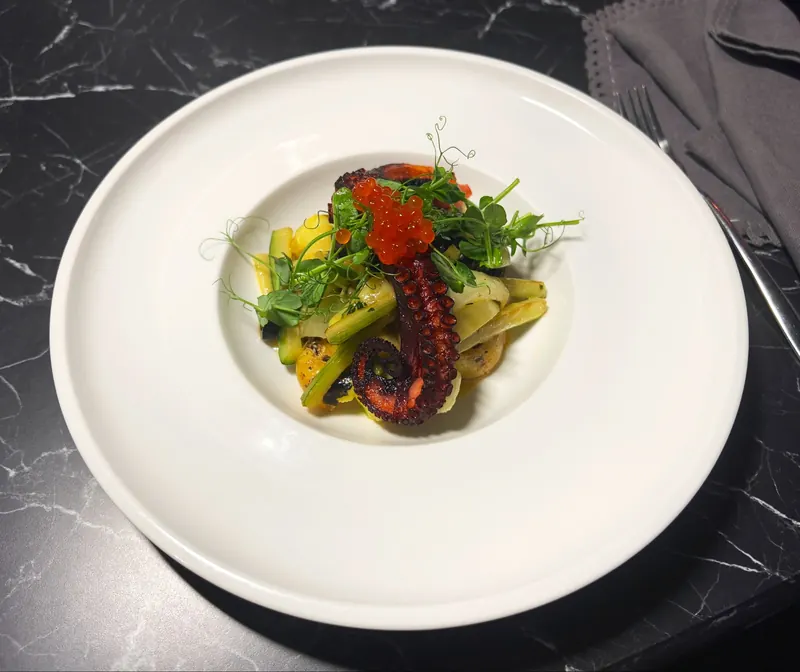
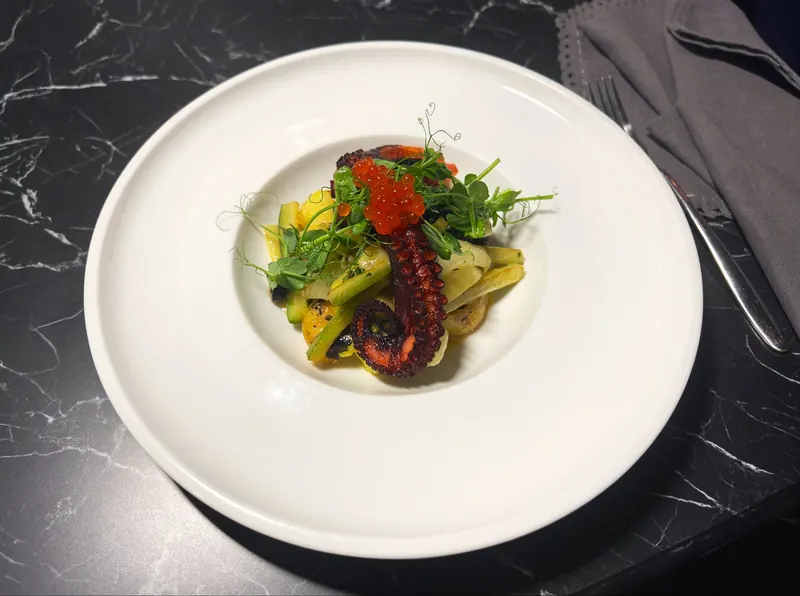
Carousel: full-width photos, compact text area on phones and tablets
- Photo slides fill the frame again (cover), always centred; the image frame on
  phones/tablets now has the photos' own 6:5 proportion, so plates stay whole.
- Wider octopus crop so the plate has room at every width.
- Phones/tablets: the carousel takes the height of its tallest slide instead of a
  fixed height; shorter descriptions below 1200 px; no large empty area under the text.

Claude-Session: https://claude.ai/code/session_01Ub6a2QUmC7YPJJ9CZ9z6S5

diff --git a/docs/index.html b/docs/index.html
@@ -20,7 +20,7 @@
 <link rel="icon" type="image/png" sizes="32x32" href="assets/img/favicon-32.png">
 <link rel="apple-touch-icon" href="assets/img/apple-touch-icon.png">
 <link rel="preload" href="assets/fonts/cormorant-garamond-latin-ext-400-normal.woff2" as="font" type="font/woff2" crossorigin>
-<link rel="stylesheet" href="assets/css/style.css?v=a135cbf9">
+<link rel="stylesheet" href="assets/css/style.css?v=16802cf9">
 <script>(function(){var d=document.documentElement,t=null;try{t=localStorage.getItem('br-theme')}catch(e){}if(t!=='light'&&t!=='dark')t=window.matchMedia&&matchMedia('(prefers-color-scheme: dark)').matches?'dark':'light';d.setAttribute('data-theme',t)})()</script>
 <noscript><style>.rx .float,.rx .rise,.rx .bar{opacity:1!important;transform:none!important}.rx .wd{color:var(--ink)}.rx .call.off{opacity:1;visibility:visible;transform:none}.rx .pbar.off{transform:none;visibility:visible}</style></noscript>
 <script type="application/ld+json">{"@context": "https://schema.org", "@type": "Restaurant", "name": "Beef & Reef", "servesCuisine": ["Steakhouse", "Seafood"], "telephone": "+48222538860", "email": "kontakt@beefandreef.pl", "priceRange": "$$$", "address": {"@type": "PostalAddress", "streetAddress": "Kazachska 1", "postalCode": "02-999", "addressLocality": "Warszawa", "addressCountry": "PL"}, "openingHoursSpecification": [{"@type": "OpeningHoursSpecification", "dayOfWeek": ["Monday", "Tuesday", "Wednesday", "Thursday", "Friday", "Saturday", "Sunday"], "opens": "12:00", "closes": "23:00"}], "sameAs": ["https://www.facebook.com/beef.and.reef.wilanow", "https://www.instagram.com/beef.and.reef_steak_seafood"], "acceptsReservations": true}</script>
@@ -89,7 +89,7 @@
             <div class="s-text">
               <p class="t1 kicker">WYDARZENIE · 7–15 LISTOPADA</p>
               <p class="t2 t-title">Z okazji Świętego Marcina</p>
-              <p class="t3 t-desc">Królować będzie gęsina w autorskich odsłonach naszego Szefa Kuchni. 11 listopada — oryginalne rogale świętomarcińskie z certyfikowanej piekarni w Poznaniu.</p>
+              <p class="t3 t-desc"><span class="d-l">Królować będzie gęsina w autorskich odsłonach naszego Szefa Kuchni. 11 listopada — oryginalne rogale świętomarcińskie z certyfikowanej piekarni w Poznaniu.</span><span class="d-s">Gęsina w autorskich odsłonach Szefa Kuchni. 11 listopada — rogale świętomarcińskie z Poznania.</span></p>
               <p class="t4 t-price">Udko z gęsi confit · 450 g · 199</p>
             </div>
             <div class="s-img"><img class="bgfill photo" src="assets/img/rogale-swietomarcinskie.webp" srcset="assets/img/rogale-swietomarcinskie-800.webp 800w, assets/img/rogale-swietomarcinskie.webp 1600w" sizes="(max-width: 899px) 100vw, 60vw" alt="" aria-hidden="true" draggable="false"><img class="photo" src="assets/img/rogale-swietomarcinskie.webp" srcset="assets/img/rogale-swietomarcinskie-800.webp 800w, assets/img/rogale-swietomarcinskie.webp 1600w" sizes="(max-width: 899px) 100vw, 60vw" alt="Rogale świętomarcińskie z lukrem i orzechami" style="" draggable="false"></div>
@@ -99,7 +99,7 @@
             <div class="s-text">
               <p class="t1 kicker">STEKI</p>
               <p class="t2 t-title">Steki z najlepszych hodowli</p>
-              <p class="t3 t-desc">Wołowina rasy Black Angus, sezonowana na sucho min. 21 dni. Polędwica, ribeye, T-bone, porterhouse i tomahawk.</p>
+              <p class="t3 t-desc"><span class="d-l">Wołowina rasy Black Angus, sezonowana na sucho min. 21 dni. Polędwica, ribeye, T-bone, porterhouse i tomahawk.</span><span class="d-s">Black Angus, sezonowana na sucho min. 21 dni.</span></p>
               <p class="t4 t-price">od 119</p>
             </div>
             <div class="s-img"><img class="bgfill plate" src="assets/img/steki-hero.webp" alt="" aria-hidden="true" draggable="false"><img class="plate" src="assets/img/steki-hero.webp" alt="Dwa surowe, marmurkowe antrykoty na drewnianej desce z tymiankiem i papryczkami chili" style="--mw: 92%; --mh: 62%" draggable="false"></div>
@@ -109,7 +109,7 @@
             <div class="s-text">
               <p class="t1 kicker">RYBY I OWOCE MORZA</p>
               <p class="t2 t-title">Macka ośmiornicy</p>
-              <p class="t3 t-desc">Ośmiornica, seler naciowy, kapary, cukinia, białe wino, oliwki, opiekane ziemniaki.</p>
+              <p class="t3 t-desc"><span class="d-l">Ośmiornica, seler naciowy, kapary, cukinia, białe wino, oliwki, opiekane ziemniaki.</span><span class="d-s">Seler naciowy, kapary, cukinia, białe wino, oliwki.</span></p>
               <p class="t4 t-price">109</p>
             </div>
             <div class="s-img"><img class="bgfill photo" src="assets/img/osmiornica.webp" srcset="assets/img/osmiornica-800.webp 800w, assets/img/osmiornica.webp 1600w" sizes="(max-width: 899px) 100vw, 60vw" alt="" aria-hidden="true" draggable="false"><img class="photo" src="assets/img/osmiornica.webp" srcset="assets/img/osmiornica-800.webp 800w, assets/img/osmiornica.webp 1600w" sizes="(max-width: 899px) 100vw, 60vw" alt="Macka ośmiornicy z cukinią, kiełkami groszku i czerwonym kawiorem w głębokim talerzu" style="object-position: 50% 50%" draggable="false"></div>
@@ -119,7 +119,7 @@
             <div class="s-text">
               <p class="t1 kicker">DANIA GŁÓWNE</p>
               <p class="t2 t-title">Pierś z kaczki</p>
-              <p class="t3 t-desc">Pierś z kaczki sous-vide, sos pomarańczowy, purée selerowe, brokuł łodygowy.</p>
+              <p class="t3 t-desc"><span class="d-l">Pierś z kaczki sous-vide, sos pomarańczowy, purée selerowe, brokuł łodygowy.</span><span class="d-s">Sous-vide, sos pomarańczowy, purée selerowe.</span></p>
               <p class="t4 t-price">109</p>
             </div>
             <div class="s-img"><img class="bgfill photo" src="assets/img/kaczka.webp" srcset="assets/img/kaczka-800.webp 800w, assets/img/kaczka.webp 1600w" sizes="(max-width: 899px) 100vw, 60vw" alt="" aria-hidden="true" draggable="false"><img class="photo" src="assets/img/kaczka.webp" srcset="assets/img/kaczka-800.webp 800w, assets/img/kaczka.webp 1600w" sizes="(max-width: 899px) 100vw, 60vw" alt="Pierś z kaczki z sosem pomarańczowym, brokułem i purée selerowym" style="object-position: 50% 50%" draggable="false"></div>
@@ -129,7 +129,7 @@
             <div class="s-text">
               <p class="t1 kicker">DESERY</p>
               <p class="t2 t-title">Kremowy sernik</p>
-              <p class="t3 t-desc">Lody waniliowe, mus malinowy, owoce.</p>
+              <p class="t3 t-desc"><span class="d-l">Lody waniliowe, mus malinowy, owoce.</span><span class="d-s">Lody waniliowe, mus malinowy, owoce.</span></p>
               <p class="t4 t-price">39</p>
             </div>
             <div class="s-img"><img class="bgfill photo" src="assets/img/sernik.webp" srcset="assets/img/sernik-800.webp 800w, assets/img/sernik.webp 1550w" sizes="(max-width: 899px) 100vw, 60vw" alt="" aria-hidden="true" draggable="false"><img class="photo" src="assets/img/sernik.webp" srcset="assets/img/sernik-800.webp 800w, assets/img/sernik.webp 1550w" sizes="(max-width: 899px) 100vw, 60vw" alt="Kremowy sernik z płatkami migdałów i gałką lodów waniliowych na stoliku w ogródku" style="object-position: 50% 50%" draggable="false"></div>

diff --git a/docs/en/index.html b/docs/en/index.html
@@ -20,7 +20,7 @@
 <link rel="icon" type="image/png" sizes="32x32" href="../assets/img/favicon-32.png">
 <link rel="apple-touch-icon" href="../assets/img/apple-touch-icon.png">
 <link rel="preload" href="../assets/fonts/cormorant-garamond-latin-ext-400-normal.woff2" as="font" type="font/woff2" crossorigin>
-<link rel="stylesheet" href="../assets/css/style.css?v=a135cbf9">
+<link rel="stylesheet" href="../assets/css/style.css?v=16802cf9">
 <script>(function(){var d=document.documentElement,t=null;try{t=localStorage.getItem('br-theme')}catch(e){}if(t!=='light'&&t!=='dark')t=window.matchMedia&&matchMedia('(prefers-color-scheme: dark)').matches?'dark':'light';d.setAttribute('data-theme',t)})()</script>
 <noscript><style>.rx .float,.rx .rise,.rx .bar{opacity:1!important;transform:none!important}.rx .wd{color:var(--ink)}.rx .call.off{opacity:1;visibility:visible;transform:none}.rx .pbar.off{transform:none;visibility:visible}</style></noscript>
 <script type="application/ld+json">{"@context": "https://schema.org", "@type": "Restaurant", "name": "Beef & Reef", "servesCuisine": ["Steakhouse", "Seafood"], "telephone": "+48222538860", "email": "kontakt@beefandreef.pl", "priceRange": "$$$", "address": {"@type": "PostalAddress", "streetAddress": "Kazachska 1", "postalCode": "02-999", "addressLocality": "Warszawa", "addressCountry": "PL"}, "openingHoursSpecification": [{"@type": "OpeningHoursSpecification", "dayOfWeek": ["Monday", "Tuesday", "Wednesday", "Thursday", "Friday", "Saturday", "Sunday"], "opens": "12:00", "closes": "23:00"}], "sameAs": ["https://www.facebook.com/beef.and.reef.wilanow", "https://www.instagram.com/beef.and.reef_steak_seafood"], "acceptsReservations": true}</script>
@@ -89,7 +89,7 @@
             <div class="s-text">
               <p class="t1 kicker">EVENT · 7–15 NOVEMBER</p>
               <p class="t2 t-title">Celebrating St. Martin’s Day</p>
-              <p class="t3 t-desc">Goose takes centre stage in our head chef’s own creations. On 11 November — original St. Martin’s croissants from a certified bakery in Poznań.</p>
+              <p class="t3 t-desc"><span class="d-l">Goose takes centre stage in our head chef’s own creations. On 11 November — original St. Martin’s croissants from a certified bakery in Poznań.</span><span class="d-s">Goose in our head chef’s own creations. On 11 November — St. Martin’s croissants from Poznań.</span></p>
               <p class="t4 t-price">Confit goose leg · 450 g · 199</p>
             </div>
             <div class="s-img"><img class="bgfill photo" src="../assets/img/rogale-swietomarcinskie.webp" srcset="../assets/img/rogale-swietomarcinskie-800.webp 800w, ../assets/img/rogale-swietomarcinskie.webp 1600w" sizes="(max-width: 899px) 100vw, 60vw" alt="" aria-hidden="true" draggable="false"><img class="photo" src="../assets/img/rogale-swietomarcinskie.webp" srcset="../assets/img/rogale-swietomarcinskie-800.webp 800w, ../assets/img/rogale-swietomarcinskie.webp 1600w" sizes="(max-width: 899px) 100vw, 60vw" alt="St. Martin’s croissants with icing and nuts" style="" draggable="false"></div>
@@ -99,7 +99,7 @@
             <div class="s-text">
               <p class="t1 kicker">STEAKS</p>
               <p class="t2 t-title">Steaks from the finest farms</p>
-              <p class="t3 t-desc">Black Angus beef, dry-aged for at least 21 days. Fillet, ribeye, T-bone, porterhouse and tomahawk.</p>
+              <p class="t3 t-desc"><span class="d-l">Black Angus beef, dry-aged for at least 21 days. Fillet, ribeye, T-bone, porterhouse and tomahawk.</span><span class="d-s">Black Angus, dry-aged for at least 21 days.</span></p>
               <p class="t4 t-price">from 119</p>
             </div>
             <div class="s-img"><img class="bgfill plate" src="../assets/img/steki-hero.webp" alt="" aria-hidden="true" draggable="false"><img class="plate" src="../assets/img/steki-hero.webp" alt="Two raw marbled ribeye steaks on a wooden board with thyme and chillies" style="--mw: 92%; --mh: 62%" draggable="false"></div>
@@ -109,7 +109,7 @@
             <div class="s-text">
               <p class="t1 kicker">FISH &amp; SEAFOOD</p>
               <p class="t2 t-title">Octopus Tentacle</p>
-              <p class="t3 t-desc">Octopus, celery, capers, courgette, white wine, olives, roasted potatoes.</p>
+              <p class="t3 t-desc"><span class="d-l">Octopus, celery, capers, courgette, white wine, olives, roasted potatoes.</span><span class="d-s">Celery, capers, courgette, white wine, olives.</span></p>
               <p class="t4 t-price">109</p>
             </div>
             <div class="s-img"><img class="bgfill photo" src="../assets/img/osmiornica.webp" srcset="../assets/img/osmiornica-800.webp 800w, ../assets/img/osmiornica.webp 1600w" sizes="(max-width: 899px) 100vw, 60vw" alt="" aria-hidden="true" draggable="false"><img class="photo" src="../assets/img/osmiornica.webp" srcset="../assets/img/osmiornica-800.webp 800w, ../assets/img/osmiornica.webp 1600w" sizes="(max-width: 899px) 100vw, 60vw" alt="Octopus tentacle with courgette, pea shoots and red caviar in a deep plate" style="object-position: 50% 50%" draggable="false"></div>
@@ -119,7 +119,7 @@
             <div class="s-text">
               <p class="t1 kicker">MAINS</p>
               <p class="t2 t-title">Duck Breast</p>
-              <p class="t3 t-desc">Sous-vide duck breast, orange sauce, celeriac purée, tenderstem broccoli.</p>
+              <p class="t3 t-desc"><span class="d-l">Sous-vide duck breast, orange sauce, celeriac purée, tenderstem broccoli.</span><span class="d-s">Sous-vide, orange sauce, celeriac purée.</span></p>
               <p class="t4 t-price">109</p>
             </div>
             <div class="s-img"><img class="bgfill photo" src="../assets/img/kaczka.webp" srcset="../assets/img/kaczka-800.webp 800w, ../assets/img/kaczka.webp 1600w" sizes="(max-width: 899px) 100vw, 60vw" alt="" aria-hidden="true" draggable="false"><img class="photo" src="../assets/img/kaczka.webp" srcset="../assets/img/kaczka-800.webp 800w, ../assets/img/kaczka.webp 1600w" sizes="(max-width: 899px) 100vw, 60vw" alt="Duck breast with orange sauce, broccoli and celeriac purée" style="object-position: 50% 50%" draggable="false"></div>
@@ -129,7 +129,7 @@
             <div class="s-text">
               <p class="t1 kicker">DESSERTS</p>
               <p class="t2 t-title">Creamy Cheesecake</p>
-              <p class="t3 t-desc">Vanilla ice cream, raspberry mousse, fruit.</p>
+              <p class="t3 t-desc"><span class="d-l">Vanilla ice cream, raspberry mousse, fruit.</span><span class="d-s">Vanilla ice cream, raspberry mousse, fruit.</span></p>
               <p class="t4 t-price">39</p>
             </div>
             <div class="s-img"><img class="bgfill photo" src="../assets/img/sernik.webp" srcset="../assets/img/sernik-800.webp 800w, ../assets/img/sernik.webp 1550w" sizes="(max-width: 899px) 100vw, 60vw" alt="" aria-hidden="true" draggable="false"><img class="photo" src="../assets/img/sernik.webp" srcset="../assets/img/sernik-800.webp 800w, ../assets/img/sernik.webp 1550w" sizes="(max-width: 899px) 100vw, 60vw" alt="Creamy cheesecake with flaked almonds and a scoop of vanilla ice cream on a terrace table" style="object-position: 50% 50%" draggable="false"></div>

diff --git a/docs/menu.html b/docs/menu.html
@@ -21,7 +21,7 @@
 <link rel="icon" type="image/png" sizes="32x32" href="assets/img/favicon-32.png">
 <link rel="apple-touch-icon" href="assets/img/apple-touch-icon.png">
 <link rel="preload" href="assets/fonts/cormorant-garamond-latin-ext-400-normal.woff2" as="font" type="font/woff2" crossorigin>
-<link rel="stylesheet" href="assets/css/style.css?v=a135cbf9">
+<link rel="stylesheet" href="assets/css/style.css?v=16802cf9">
 <script>(function(){var d=document.documentElement,t=null;try{t=localStorage.getItem('br-theme')}catch(e){}if(t!=='light'&&t!=='dark')t=window.matchMedia&&matchMedia('(prefers-color-scheme: dark)').matches?'dark':'light';d.setAttribute('data-theme',t)})()</script>
 <noscript><style>.rx .float,.rx .rise,.rx .bar{opacity:1!important;transform:none!important}.rx .wd{color:var(--ink)}.rx .call.off{opacity:1;visibility:visible;transform:none}.rx .pbar.off{transform:none;visibility:visible}</style></noscript>
 <script type="application/ld+json">{"@context": "https://schema.org", "@type": "Restaurant", "name": "Beef & Reef", "servesCuisine": ["Steakhouse", "Seafood"], "telephone": "+48222538860", "email": "kontakt@beefandreef.pl", "priceRange": "$$$", "address": {"@type": "PostalAddress", "streetAddress": "Kazachska 1", "postalCode": "02-999", "addressLocality": "Warszawa", "addressCountry": "PL"}, "openingHoursSpecification": [{"@type": "OpeningHoursSpecification", "dayOfWeek": ["Monday", "Tuesday", "Wednesday", "Thursday", "Friday", "Saturday", "Sunday"], "opens": "12:00", "closes": "23:00"}], "sameAs": ["https://www.facebook.com/beef.and.reef.wilanow", "https://www.instagram.com/beef.and.reef_steak_seafood"], "acceptsReservations": true}</script>
@@ -90,7 +90,7 @@
             <div class="s-text">
               <p class="t1 kicker">STEKI</p>
               <p class="t2 t-title">Steki z najlepszych hodowli</p>
-              <p class="t3 t-desc">Wołowina rasy Black Angus, sezonowana na sucho min. 21 dni. Polędwica, ribeye, T-bone, porterhouse i tomahawk.</p>
+              <p class="t3 t-desc"><span class="d-l">Wołowina rasy Black Angus, sezonowana na sucho min. 21 dni. Polędwica, ribeye, T-bone, porterhouse i tomahawk.</span><span class="d-s">Black Angus, sezonowana na sucho min. 21 dni.</span></p>
               <p class="t4 t-price">od 119</p>
             </div>
             <div class="s-img"><img class="bgfill plate" src="assets/img/steki-hero.webp" alt="" aria-hidden="true" draggable="false"><img class="plate" src="assets/img/steki-hero.webp" alt="Dwa surowe, marmurkowe antrykoty na drewnianej desce z tymiankiem i papryczkami chili" style="--mw: 92%; --mh: 62%" draggable="false"></div>
@@ -100,7 +100,7 @@
             <div class="s-text">
               <p class="t1 kicker">RYBY I OWOCE MORZA</p>
               <p class="t2 t-title">Macka ośmiornicy</p>
-              <p class="t3 t-desc">Ośmiornica, seler naciowy, kapary, cukinia, białe wino, oliwki, opiekane ziemniaki.</p>
+              <p class="t3 t-desc"><span class="d-l">Ośmiornica, seler naciowy, kapary, cukinia, białe wino, oliwki, opiekane ziemniaki.</span><span class="d-s">Seler naciowy, kapary, cukinia, białe wino, oliwki.</span></p>
               <p class="t4 t-price">109</p>
             </div>
             <div class="s-img"><img class="bgfill photo" src="assets/img/osmiornica.webp" srcset="assets/img/osmiornica-800.webp 800w, assets/img/osmiornica.webp 1600w" sizes="(max-width: 899px) 100vw, 60vw" alt="" aria-hidden="true" draggable="false"><img class="photo" src="assets/img/osmiornica.webp" srcset="assets/img/osmiornica-800.webp 800w, assets/img/osmiornica.webp 1600w" sizes="(max-width: 899px) 100vw, 60vw" alt="Macka ośmiornicy z cukinią, kiełkami groszku i czerwonym kawiorem w głębokim talerzu" style="object-position: 50% 50%" draggable="false"></div>
@@ -110,7 +110,7 @@
             <div class="s-text">
               <p class="t1 kicker">DANIA GŁÓWNE</p>
               <p class="t2 t-title">Pierś z kaczki</p>
-              <p class="t3 t-desc">Pierś z kaczki sous-vide, sos pomarańczowy, purée selerowe, brokuł łodygowy.</p>
+              <p class="t3 t-desc"><span class="d-l">Pierś z kaczki sous-vide, sos pomarańczowy, purée selerowe, brokuł łodygowy.</span><span class="d-s">Sous-vide, sos pomarańczowy, purée selerowe.</span></p>
               <p class="t4 t-price">109</p>
             </div>
             <div class="s-img"><img class="bgfill photo" src="assets/img/kaczka.webp" srcset="assets/img/kaczka-800.webp 800w, assets/img/kaczka.webp 1600w" sizes="(max-width: 899px) 100vw, 60vw" alt="" aria-hidden="true" draggable="false"><img class="photo" src="assets/img/kaczka.webp" srcset="assets/img/kaczka-800.webp 800w, assets/img/kaczka.webp 1600w" sizes="(max-width: 899px) 100vw, 60vw" alt="Pierś z kaczki z sosem pomarańczowym, brokułem i purée selerowym" style="object-position: 50% 50%" draggable="false"></div>
@@ -120,7 +120,7 @@
             <div class="s-text">
               <p class="t1 kicker">DESERY</p>
               <p class="t2 t-title">Kremowy sernik</p>
-              <p class="t3 t-desc">Lody waniliowe, mus malinowy, owoce.</p>
+              <p class="t3 t-desc"><span class="d-l">Lody waniliowe, mus malinowy, owoce.</span><span class="d-s">Lody waniliowe, mus malinowy, owoce.</span></p>
               <p class="t4 t-price">39</p>
             </div>
             <div class="s-img"><img class="bgfill photo" src="assets/img/sernik.webp" srcset="assets/img/sernik-800.webp 800w, assets/img/sernik.webp 1550w" sizes="(max-width: 899px) 100vw, 60vw" alt="" aria-hidden="true" draggable="false"><img class="photo" src="assets/img/sernik.webp" srcset="assets/img/sernik-800.webp 800w, assets/img/sernik.webp 1550w" sizes="(max-width: 899px) 100vw, 60vw" alt="Kremowy sernik z płatkami migdałów i gałką lodów waniliowych na stoliku w ogródku" style="object-position: 50% 50%" draggable="false"></div>

diff --git a/docs/en/menu.html b/docs/en/menu.html
@@ -20,7 +20,7 @@
 <link rel="icon" type="image/png" sizes="32x32" href="../assets/img/favicon-32.png">
 <link rel="apple-touch-icon" href="../assets/img/apple-touch-icon.png">
 <link rel="preload" href="../assets/fonts/cormorant-garamond-latin-ext-400-normal.woff2" as="font" type="font/woff2" crossorigin>
-<link rel="stylesheet" href="../assets/css/style.css?v=a135cbf9">
+<link rel="stylesheet" href="../assets/css/style.css?v=16802cf9">
 <script>(function(){var d=document.documentElement,t=null;try{t=localStorage.getItem('br-theme')}catch(e){}if(t!=='light'&&t!=='dark')t=window.matchMedia&&matchMedia('(prefers-color-scheme: dark)').matches?'dark':'light';d.setAttribute('data-theme',t)})()</script>
 <noscript><style>.rx .float,.rx .rise,.rx .bar{opacity:1!important;transform:none!important}.rx .wd{color:var(--ink)}.rx .call.off{opacity:1;visibility:visible;transform:none}.rx .pbar.off{transform:none;visibility:visible}</style></noscript>
 <script type="application/ld+json">{"@context": "https://schema.org", "@type": "Restaurant", "name": "Beef & Reef", "servesCuisine": ["Steakhouse", "Seafood"], "telephone": "+48222538860", "email": "kontakt@beefandreef.pl", "priceRange": "$$$", "address": {"@type": "PostalAddress", "streetAddress": "Kazachska 1", "postalCode": "02-999", "addressLocality": "Warszawa", "addressCountry": "PL"}, "openingHoursSpecification": [{"@type": "OpeningHoursSpecification", "dayOfWeek": ["Monday", "Tuesday", "Wednesday", "Thursday", "Friday", "Saturday", "Sunday"], "opens": "12:00", "closes": "23:00"}], "sameAs": ["https://www.facebook.com/beef.and.reef.wilanow", "https://www.instagram.com/beef.and.reef_steak_seafood"], "acceptsReservations": true}</script>
@@ -89,7 +89,7 @@
             <div class="s-text">
               <p class="t1 kicker">STEAKS</p>
               <p class="t2 t-title">Steaks from the finest farms</p>
-              <p class="t3 t-desc">Black Angus beef, dry-aged for at least 21 days. Fillet, ribeye, T-bone, porterhouse and tomahawk.</p>
+              <p class="t3 t-desc"><span class="d-l">Black Angus beef, dry-aged for at least 21 days. Fillet, ribeye, T-bone, porterhouse and tomahawk.</span><span class="d-s">Black Angus, dry-aged for at least 21 days.</span></p>
               <p class="t4 t-price">from 119</p>
             </div>
             <div class="s-img"><img class="bgfill plate" src="../assets/img/steki-hero.webp" alt="" aria-hidden="true" draggable="false"><img class="plate" src="../assets/img/steki-hero.webp" alt="Two raw marbled ribeye steaks on a wooden board with thyme and chillies" style="--mw: 92%; --mh: 62%" draggable="false"></div>
@@ -99,7 +99,7 @@
             <div class="s-text">
               <p class="t1 kicker">FISH &amp; SEAFOOD</p>
               <p class="t2 t-title">Octopus Tentacle</p>
-              <p class="t3 t-desc">Octopus, celery, capers, courgette, white wine, olives, roasted potatoes.</p>
+              <p class="t3 t-desc"><span class="d-l">Octopus, celery, capers, courgette, white wine, olives, roasted potatoes.</span><span class="d-s">Celery, capers, courgette, white wine, olives.</span></p>
               <p class="t4 t-price">109</p>
             </div>
             <div class="s-img"><img class="bgfill photo" src="../assets/img/osmiornica.webp" srcset="../assets/img/osmiornica-800.webp 800w, ../assets/img/osmiornica.webp 1600w" sizes="(max-width: 899px) 100vw, 60vw" alt="" aria-hidden="true" draggable="false"><img class="photo" src="../assets/img/osmiornica.webp" srcset="../assets/img/osmiornica-800.webp 800w, ../assets/img/osmiornica.webp 1600w" sizes="(max-width: 899px) 100vw, 60vw" alt="Octopus tentacle with courgette, pea shoots and red caviar in a deep plate" style="object-position: 50% 50%" draggable="false"></div>
@@ -109,7 +109,7 @@
             <div class="s-text">
               <p class="t1 kicker">MAINS</p>
               <p class="t2 t-title">Duck Breast</p>
-              <p class="t3 t-desc">Sous-vide duck breast, orange sauce, celeriac purée, tenderstem broccoli.</p>
+              <p class="t3 t-desc"><span class="d-l">Sous-vide duck breast, orange sauce, celeriac purée, tenderstem broccoli.</span><span class="d-s">Sous-vide, orange sauce, celeriac purée.</span></p>
               <p class="t4 t-price">109</p>
             </div>
             <div class="s-img"><img class="bgfill photo" src="../assets/img/kaczka.webp" srcset="../assets/img/kaczka-800.webp 800w, ../assets/img/kaczka.webp 1600w" sizes="(max-width: 899px) 100vw, 60vw" alt="" aria-hidden="true" draggable="false"><img class="photo" src="../assets/img/kaczka.webp" srcset="../assets/img/kaczka-800.webp 800w, ../assets/img/kaczka.webp 1600w" sizes="(max-width: 899px) 100vw, 60vw" alt="Duck breast with orange sauce, broccoli and celeriac purée" style="object-position: 50% 50%" draggable="false"></div>
@@ -119,7 +119,7 @@
             <div class="s-text">
               <p class="t1 kicker">DESSERTS</p>
               <p class="t2 t-title">Creamy Cheesecake</p>
-              <p class="t3 t-desc">Vanilla ice cream, raspberry mousse, fruit.</p>
+              <p class="t3 t-desc"><span class="d-l">Vanilla ice cream, raspberry mousse, fruit.</span><span class="d-s">Vanilla ice cream, raspberry mousse, fruit.</span></p>
               <p class="t4 t-price">39</p>
             </div>
             <div class="s-img"><img class="bgfill photo" src="../assets/img/sernik.webp" srcset="../assets/img/sernik-800.webp 800w, ../assets/img/sernik.webp 1550w" sizes="(max-width: 899px) 100vw, 60vw" alt="" aria-hidden="true" draggable="false"><img class="photo" src="../assets/img/sernik.webp" srcset="../assets/img/sernik-800.webp 800w, ../assets/img/sernik.webp 1550w" sizes="(max-width: 899px) 100vw, 60vw" alt="Creamy cheesecake with flaked almonds and a scoop of vanilla ice cream on a terrace table" style="object-position: 50% 50%" draggable="false"></div>

diff --git a/docs/assets/css/style.css b/docs/assets/css/style.css
@@ -137,11 +137,12 @@ html[data-theme="dark"] .rx{--paper:#0a0a0a;--ground:linear-gradient(180deg,#0a0
 .rx .s-text{background:var(--paper);padding:64px 64px 168px;display:flex;flex-direction:column;justify-content:center;gap:16px;min-width:0}
 .rx .s-img{position:relative;overflow:hidden;background:var(--stage);display:flex;align-items:center;justify-content:center;min-height:0}
 .rx .s-img .plate{display:block;width:auto;height:auto;max-width:var(--mw,74%);max-height:var(--mh,82%);object-fit:contain;filter:drop-shadow(0 28px 28px var(--plate))}
-.rx .s-img .photo{position:absolute;inset:0;width:100%;height:100%;object-fit:contain;object-position:50% 50% !important;z-index:1}
+.rx .s-img .photo{position:absolute;inset:0;width:100%;height:100%;object-fit:cover;object-position:50% 50% !important;z-index:1}
 .rx .s-img img.bgfill{position:absolute;top:-32px;left:-32px;width:calc(100% + 64px);height:calc(100% + 64px);max-width:none;max-height:none;object-fit:cover;object-position:50% 50% !important;filter:blur(28px) brightness(0.85) saturate(1.05);z-index:0;pointer-events:none}
-.rx .s-img img.bgfill.plate{display:none}
+.rx .s-img img.bgfill{display:none}
 .rx .t-title{margin:0;font-size:clamp(36px,3.6vw,56px);line-height:1.05;font-weight:700}
 .rx .t-desc{margin:0;max-width:440px;font-size:19px;line-height:28px}
+.rx .t-desc .d-s{display:none}
 .rx .t-price{margin:8px 0 0;font-size:20px;line-height:24px;font-weight:700}
 .rx .slide .t1,.rx .slide .t2,.rx .slide .t3,.rx .slide .t4{opacity:0;transform:translateY(24px)}
 .rx .slide.cur .t1,.rx .slide.cur .t2,.rx .slide.cur .t3,.rx .slide.cur .t4{opacity:1;transform:none;transition:opacity .8s ease,transform 1s cubic-bezier(.2,.7,.2,1)}
@@ -343,7 +344,11 @@ html[data-theme="dark"] .rx{--paper:#0a0a0a;--ground:linear-gradient(180deg,#0a0
   .rx .hdr-l{gap:32px}
   .rx .hero{padding-top:96px}
   .rx .car-wrap{margin-top:80px}
-  .rx .s-text{padding:48px 40px 160px}
+  .rx .car{height:clamp(480px,calc((100vw - 96px) * 0.54),600px)}
+  .rx .s-text{padding:40px 40px 152px;gap:12px}
+  .rx .t-title{font-size:32px;line-height:1.08}
+  .rx .t-desc .d-l{display:none}
+  .rx .t-desc .d-s{display:inline}
   .rx .ctrl{left:40px;bottom:40px;width:calc(41.666% - 80px)}
   .rx .ctrl-row{gap:8px}
   .rx .about{padding-top:160px}
@@ -376,10 +381,10 @@ html[data-theme="dark"] .rx{--paper:#0a0a0a;--ground:linear-gradient(180deg,#0a0
   .rx{--gut:32px;--sec:112px}
   .rx .hero{padding-top:80px}
   .rx .car-wrap{margin-top:64px}
-  .rx .car{height:800px}
-  .rx .slide{grid-template-columns:1fr;grid-template-rows:400px 1fr}
-  .rx .s-img{order:-1}
-  .rx .s-text{padding:32px 32px 136px;justify-content:flex-start;gap:12px}
+  .rx .car{height:auto;display:grid}
+  .rx .slide{position:relative;inset:auto;grid-area:1 / 1;grid-template-columns:1fr;grid-template-rows:auto auto}
+  .rx .s-img{order:-1;aspect-ratio:6 / 5}
+  .rx .s-text{padding:32px 32px 152px;justify-content:flex-start;gap:12px}
   .rx .t-title{font-size:40px}
   .rx .t-desc{max-width:560px}
   .rx .ctrl{left:32px;right:32px;bottom:24px;width:auto}
@@ -416,9 +421,7 @@ html[data-theme="dark"] .rx{--paper:#0a0a0a;--ground:linear-gradient(180deg,#0a0
   .rx .hero-info{flex-direction:column;gap:0;font-size:17px}
   .rx .hero-info .dot{display:none}
   .rx .car-wrap{margin-top:48px;margin-left:-16px;margin-right:-16px}
-  .rx .car{height:clamp(700px,calc(70vw + 460px),780px)}
-  .rx .slide{grid-template-rows:clamp(240px,70vw,320px) 1fr}
-  .rx .s-text{padding:24px 24px 128px;gap:8px}
+  .rx .s-text{padding:24px 24px 144px;gap:8px}
   .rx .t-title{font-size:30px;line-height:34px}
   .rx .t-desc{font-size:17px;line-height:24px}
   .rx .t-price{font-size:18px;margin-top:4px}

diff --git a/src/ruch/style.css b/src/ruch/style.css
@@ -122,11 +122,12 @@ body{margin:0}
 .rx .s-text{background:var(--paper);padding:64px 64px 168px;display:flex;flex-direction:column;justify-content:center;gap:16px;min-width:0}
 .rx .s-img{position:relative;overflow:hidden;background:var(--stage);display:flex;align-items:center;justify-content:center;min-height:0}
 .rx .s-img .plate{display:block;width:auto;height:auto;max-width:var(--mw,74%);max-height:var(--mh,82%);object-fit:contain;filter:drop-shadow(0 28px 28px var(--plate))}
-.rx .s-img .photo{position:absolute;inset:0;width:100%;height:100%;object-fit:contain;object-position:50% 50% !important;z-index:1}
+.rx .s-img .photo{position:absolute;inset:0;width:100%;height:100%;object-fit:cover;object-position:50% 50% !important;z-index:1}
 .rx .s-img img.bgfill{position:absolute;top:-32px;left:-32px;width:calc(100% + 64px);height:calc(100% + 64px);max-width:none;max-height:none;object-fit:cover;object-position:50% 50% !important;filter:blur(28px) brightness(0.85) saturate(1.05);z-index:0;pointer-events:none}
-.rx .s-img img.bgfill.plate{display:none}
+.rx .s-img img.bgfill{display:none}
 .rx .t-title{margin:0;font-size:clamp(36px,3.6vw,56px);line-height:1.05;font-weight:700}
 .rx .t-desc{margin:0;max-width:440px;font-size:19px;line-height:28px}
+.rx .t-desc .d-s{display:none}
 .rx .t-price{margin:8px 0 0;font-size:20px;line-height:24px;font-weight:700}
 .rx .slide .t1,.rx .slide .t2,.rx .slide .t3,.rx .slide .t4{opacity:0;transform:translateY(24px)}
 .rx .slide.cur .t1,.rx .slide.cur .t2,.rx .slide.cur .t3,.rx .slide.cur .t4{opacity:1;transform:none;transition:opacity .8s ease,transform 1s cubic-bezier(.2,.7,.2,1)}
@@ -328,7 +329,11 @@ body{margin:0}
   .rx .hdr-l{gap:32px}
   .rx .hero{padding-top:96px}
   .rx .car-wrap{margin-top:80px}
-  .rx .s-text{padding:48px 40px 160px}
+  .rx .car{height:clamp(480px,calc((100vw - 96px) * 0.54),600px)}
+  .rx .s-text{padding:40px 40px 152px;gap:12px}
+  .rx .t-title{font-size:32px;line-height:1.08}
+  .rx .t-desc .d-l{display:none}
+  .rx .t-desc .d-s{display:inline}
   .rx .ctrl{left:40px;bottom:40px;width:calc(41.666% - 80px)}
   .rx .ctrl-row{gap:8px}
   .rx .about{padding-top:160px}
@@ -361,10 +366,10 @@ body{margin:0}
   .rx{--gut:32px;--sec:112px}
   .rx .hero{padding-top:80px}
   .rx .car-wrap{margin-top:64px}
-  .rx .car{height:800px}
-  .rx .slide{grid-template-columns:1fr;grid-template-rows:400px 1fr}
-  .rx .s-img{order:-1}
-  .rx .s-text{padding:32px 32px 136px;justify-content:flex-start;gap:12px}
+  .rx .car{height:auto;display:grid}
+  .rx .slide{position:relative;inset:auto;grid-area:1 / 1;grid-template-columns:1fr;grid-template-rows:auto auto}
+  .rx .s-img{order:-1;aspect-ratio:6 / 5}
+  .rx .s-text{padding:32px 32px 152px;justify-content:flex-start;gap:12px}
   .rx .t-title{font-size:40px}
   .rx .t-desc{max-width:560px}
   .rx .ctrl{left:32px;right:32px;bottom:24px;width:auto}
@@ -401,9 +406,7 @@ body{margin:0}
   .rx .hero-info{flex-direction:column;gap:0;font-size:17px}
   .rx .hero-info .dot{display:none}
   .rx .car-wrap{margin-top:48px;margin-left:-16px;margin-right:-16px}
-  .rx .car{height:clamp(700px,calc(70vw + 460px),780px)}
-  .rx .slide{grid-template-rows:clamp(240px,70vw,320px) 1fr}
-  .rx .s-text{padding:24px 24px 128px;gap:8px}
+  .rx .s-text{padding:24px 24px 144px;gap:8px}
   .rx .t-title{font-size:30px;line-height:34px}
   .rx .t-desc{font-size:17px;line-height:24px}
   .rx .t-price{font-size:18px;margin-top:4px}

diff --git a/docs/en/cookies.html b/docs/en/cookies.html
@@ -20,7 +20,7 @@
 <link rel="icon" type="image/png" sizes="32x32" href="../assets/img/favicon-32.png">
 <link rel="apple-touch-icon" href="../assets/img/apple-touch-icon.png">
 <link rel="preload" href="../assets/fonts/cormorant-garamond-latin-ext-400-normal.woff2" as="font" type="font/woff2" crossorigin>
-<link rel="stylesheet" href="../assets/css/style.css?v=a135cbf9">
+<link rel="stylesheet" href="../assets/css/style.css?v=16802cf9">
 <script>(function(){var d=document.documentElement,t=null;try{t=localStorage.getItem('br-theme')}catch(e){}if(t!=='light'&&t!=='dark')t=window.matchMedia&&matchMedia('(prefers-color-scheme: dark)').matches?'dark':'light';d.setAttribute('data-theme',t)})()</script>
 <noscript><style>.rx .float,.rx .rise,.rx .bar{opacity:1!important;transform:none!important}.rx .wd{color:var(--ink)}.rx .call.off{opacity:1;visibility:visible;transform:none}.rx .pbar.off{transform:none;visibility:visible}</style></noscript>
 <script type="application/ld+json">{"@context": "https://schema.org", "@type": "Restaurant", "name": "Beef & Reef", "servesCuisine": ["Steakhouse", "Seafood"], "telephone": "+48222538860", "email": "kontakt@beefandreef.pl", "priceRange": "$$$", "address": {"@type": "PostalAddress", "streetAddress": "Kazachska 1", "postalCode": "02-999", "addressLocality": "Warszawa", "addressCountry": "PL"}, "openingHoursSpecification": [{"@type": "OpeningHoursSpecification", "dayOfWeek": ["Monday", "Tuesday", "Wednesday", "Thursday", "Friday", "Saturday", "Sunday"], "opens": "12:00", "closes": "23:00"}], "sameAs": ["https://www.facebook.com/beef.and.reef.wilanow", "https://www.instagram.com/beef.and.reef_steak_seafood"], "acceptsReservations": true}</script>

diff --git a/docs/en/parties.html b/docs/en/parties.html
@@ -20,7 +20,7 @@
 <link rel="icon" type="image/png" sizes="32x32" href="../assets/img/favicon-32.png">
 <link rel="apple-touch-icon" href="../assets/img/apple-touch-icon.png">
 <link rel="preload" href="../assets/fonts/cormorant-garamond-latin-ext-400-normal.woff2" as="font" type="font/woff2" crossorigin>
-<link rel="stylesheet" href="../assets/css/style.css?v=a135cbf9">
+<link rel="stylesheet" href="../assets/css/style.css?v=16802cf9">
 <script>(function(){var d=document.documentElement,t=null;try{t=localStorage.getItem('br-theme')}catch(e){}if(t!=='light'&&t!=='dark')t=window.matchMedia&&matchMedia('(prefers-color-scheme: dark)').matches?'dark':'light';d.setAttribute('data-theme',t)})()</script>
 <noscript><style>.rx .float,.rx .rise,.rx .bar{opacity:1!important;transform:none!important}.rx .wd{color:var(--ink)}.rx .call.off{opacity:1;visibility:visible;transform:none}.rx .pbar.off{transform:none;visibility:visible}</style></noscript>
 <script type="application/ld+json">{"@context": "https://schema.org", "@type": "Restaurant", "name": "Beef & Reef", "servesCuisine": ["Steakhouse", "Seafood"], "telephone": "+48222538860", "email": "kontakt@beefandreef.pl", "priceRange": "$$$", "address": {"@type": "PostalAddress", "streetAddress": "Kazachska 1", "postalCode": "02-999", "addressLocality": "Warszawa", "addressCountry": "PL"}, "openingHoursSpecification": [{"@type": "OpeningHoursSpecification", "dayOfWeek": ["Monday", "Tuesday", "Wednesday", "Thursday", "Friday", "Saturday", "Sunday"], "opens": "12:00", "closes": "23:00"}], "sameAs": ["https://www.facebook.com/beef.and.reef.wilanow", "https://www.instagram.com/beef.and.reef_steak_seafood"], "acceptsReservations": true}</script>

diff --git a/docs/en/privacy.html b/docs/en/privacy.html
@@ -20,7 +20,7 @@
 <link rel="icon" type="image/png" sizes="32x32" href="../assets/img/favicon-32.png">
 <link rel="apple-touch-icon" href="../assets/img/apple-touch-icon.png">
 <link rel="preload" href="../assets/fonts/cormorant-garamond-latin-ext-400-normal.woff2" as="font" type="font/woff2" crossorigin>
-<link rel="stylesheet" href="../assets/css/style.css?v=a135cbf9">
+<link rel="stylesheet" href="../assets/css/style.css?v=16802cf9">
 <script>(function(){var d=document.documentElement,t=null;try{t=localStorage.getItem('br-theme')}catch(e){}if(t!=='light'&&t!=='dark')t=window.matchMedia&&matchMedia('(prefers-color-scheme: dark)').matches?'dark':'light';d.setAttribute('data-theme',t)})()</script>
 <noscript><style>.rx .float,.rx .rise,.rx .bar{opacity:1!important;transform:none!important}.rx .wd{color:var(--ink)}.rx .call.off{opacity:1;visibility:visible;transform:none}.rx .pbar.off{transform:none;visibility:visible}</style></noscript>
 <script type="application/ld+json">{"@context": "https://schema.org", "@type": "Restaurant", "name": "Beef & Reef", "servesCuisine": ["Steakhouse", "Seafood"], "telephone": "+48222538860", "email": "kontakt@beefandreef.pl", "priceRange": "$$$", "address": {"@type": "PostalAddress", "streetAddress": "Kazachska 1", "postalCode": "02-999", "addressLocality": "Warszawa", "addressCountry": "PL"}, "openingHoursSpecification": [{"@type": "OpeningHoursSpecification", "dayOfWeek": ["Monday", "Tuesday", "Wednesday", "Thursday", "Friday", "Saturday", "Sunday"], "opens": "12:00", "closes": "23:00"}], "sameAs": ["https://www.facebook.com/beef.and.reef.wilanow", "https://www.instagram.com/beef.and.reef_steak_seafood"], "acceptsReservations": true}</script>

diff --git a/docs/404.html b/docs/404.html
@@ -17,7 +17,7 @@
 <link rel="icon" type="image/png" sizes="32x32" href="assets/img/favicon-32.png">
 <link rel="apple-touch-icon" href="assets/img/apple-touch-icon.png">
 <link rel="preload" href="assets/fonts/cormorant-garamond-latin-ext-400-normal.woff2" as="font" type="font/woff2" crossorigin>
-<link rel="stylesheet" href="assets/css/style.css?v=a135cbf9">
+<link rel="stylesheet" href="assets/css/style.css?v=16802cf9">
 <script>(function(){var d=document.documentElement,t=null;try{t=localStorage.getItem('br-theme')}catch(e){}if(t!=='light'&&t!=='dark')t=window.matchMedia&&matchMedia('(prefers-color-scheme: dark)').matches?'dark':'light';d.setAttribute('data-theme',t)})()</script>
 <noscript><style>.rx .float,.rx .rise,.rx .bar{opacity:1!important;transform:none!important}.rx .wd{color:var(--ink)}.rx .call.off{opacity:1;visibility:visible;transform:none}.rx .pbar.off{transform:none;visibility:visible}</style></noscript>
 <script type="application/ld+json">{"@context": "https://schema.org", "@type": "Restaurant", "name": "Beef & Reef", "servesCuisine": ["Steakhouse", "Seafood"], "telephone": "+48222538860", "email": "kontakt@beefandreef.pl", "priceRange": "$$$", "address": {"@type": "PostalAddress", "streetAddress": "Kazachska 1", "postalCode": "02-999", "addressLocality": "Warszawa", "addressCountry": "PL"}, "openingHoursSpecification": [{"@type": "OpeningHoursSpecification", "dayOfWeek": ["Monday", "Tuesday", "Wednesday", "Thursday", "Friday", "Saturday", "Sunday"], "opens": "12:00", "closes": "23:00"}], "sameAs": ["https://www.facebook.com/beef.and.reef.wilanow", "https://www.instagram.com/beef.and.reef_steak_seafood"], "acceptsReservations": true}</script>

diff --git a/docs/cookies.html b/docs/cookies.html
@@ -20,7 +20,7 @@
 <link rel="icon" type="image/png" sizes="32x32" href="assets/img/favicon-32.png">
 <link rel="apple-touch-icon" href="assets/img/apple-touch-icon.png">
 <link rel="preload" href="assets/fonts/cormorant-garamond-latin-ext-400-normal.woff2" as="font" type="font/woff2" crossorigin>
-<link rel="stylesheet" href="assets/css/style.css?v=a135cbf9">
+<link rel="stylesheet" href="assets/css/style.css?v=16802cf9">
 <script>(function(){var d=document.documentElement,t=null;try{t=localStorage.getItem('br-theme')}catch(e){}if(t!=='light'&&t!=='dark')t=window.matchMedia&&matchMedia('(prefers-color-scheme: dark)').matches?'dark':'light';d.setAttribute('data-theme',t)})()</script>
 <noscript><style>.rx .float,.rx .rise,.rx .bar{opacity:1!important;transform:none!important}.rx .wd{color:var(--ink)}.rx .call.off{opacity:1;visibility:visible;transform:none}.rx .pbar.off{transform:none;visibility:visible}</style></noscript>
 <script type="application/ld+json">{"@context": "https://schema.org", "@type": "Restaurant", "name": "Beef & Reef", "servesCuisine": ["Steakhouse", "Seafood"], "telephone": "+48222538860", "email": "kontakt@beefandreef.pl", "priceRange": "$$$", "address": {"@type": "PostalAddress", "streetAddress": "Kazachska 1", "postalCode": "02-999", "addressLocality": "Warszawa", "addressCountry": "PL"}, "openingHoursSpecification": [{"@type": "OpeningHoursSpecification", "dayOfWeek": ["Monday", "Tuesday", "Wednesday", "Thursday", "Friday", "Saturday", "Sunday"], "opens": "12:00", "closes": "23:00"}], "sameAs": ["https://www.facebook.com/beef.and.reef.wilanow", "https://www.instagram.com/beef.and.reef_steak_seafood"], "acceptsReservations": true}</script>

diff --git a/docs/polityka-prywatnosci.html b/docs/polityka-prywatnosci.html
@@ -20,7 +20,7 @@
 <link rel="icon" type="image/png" sizes="32x32" href="assets/img/favicon-32.png">
 <link rel="apple-touch-icon" href="assets/img/apple-touch-icon.png">
 <link rel="preload" href="assets/fonts/cormorant-garamond-latin-ext-400-normal.woff2" as="font" type="font/woff2" crossorigin>
-<link rel="stylesheet" href="assets/css/style.css?v=a135cbf9">
+<link rel="stylesheet" href="assets/css/style.css?v=16802cf9">
 <script>(function(){var d=document.documentElement,t=null;try{t=localStorage.getItem('br-theme')}catch(e){}if(t!=='light'&&t!=='dark')t=window.matchMedia&&matchMedia('(prefers-color-scheme: dark)').matches?'dark':'light';d.setAttribute('data-theme',t)})()</script>
 <noscript><style>.rx .float,.rx .rise,.rx .bar{opacity:1!important;transform:none!important}.rx .wd{color:var(--ink)}.rx .call.off{opacity:1;visibility:visible;transform:none}.rx .pbar.off{transform:none;visibility:visible}</style></noscript>
 <script type="application/ld+json">{"@context": "https://schema.org", "@type": "Restaurant", "name": "Beef & Reef", "servesCuisine": ["Steakhouse", "Seafood"], "telephone": "+48222538860", "email": "kontakt@beefandreef.pl", "priceRange": "$$$", "address": {"@type": "PostalAddress", "streetAddress": "Kazachska 1", "postalCode": "02-999", "addressLocality": "Warszawa", "addressCountry": "PL"}, "openingHoursSpecification": [{"@type": "OpeningHoursSpecification", "dayOfWeek": ["Monday", "Tuesday", "Wednesday", "Thursday", "Friday", "Saturday", "Sunday"], "opens": "12:00", "closes": "23:00"}], "sameAs": ["https://www.facebook.com/beef.and.reef.wilanow", "https://www.instagram.com/beef.and.reef_steak_seafood"], "acceptsReservations": true}</script>
